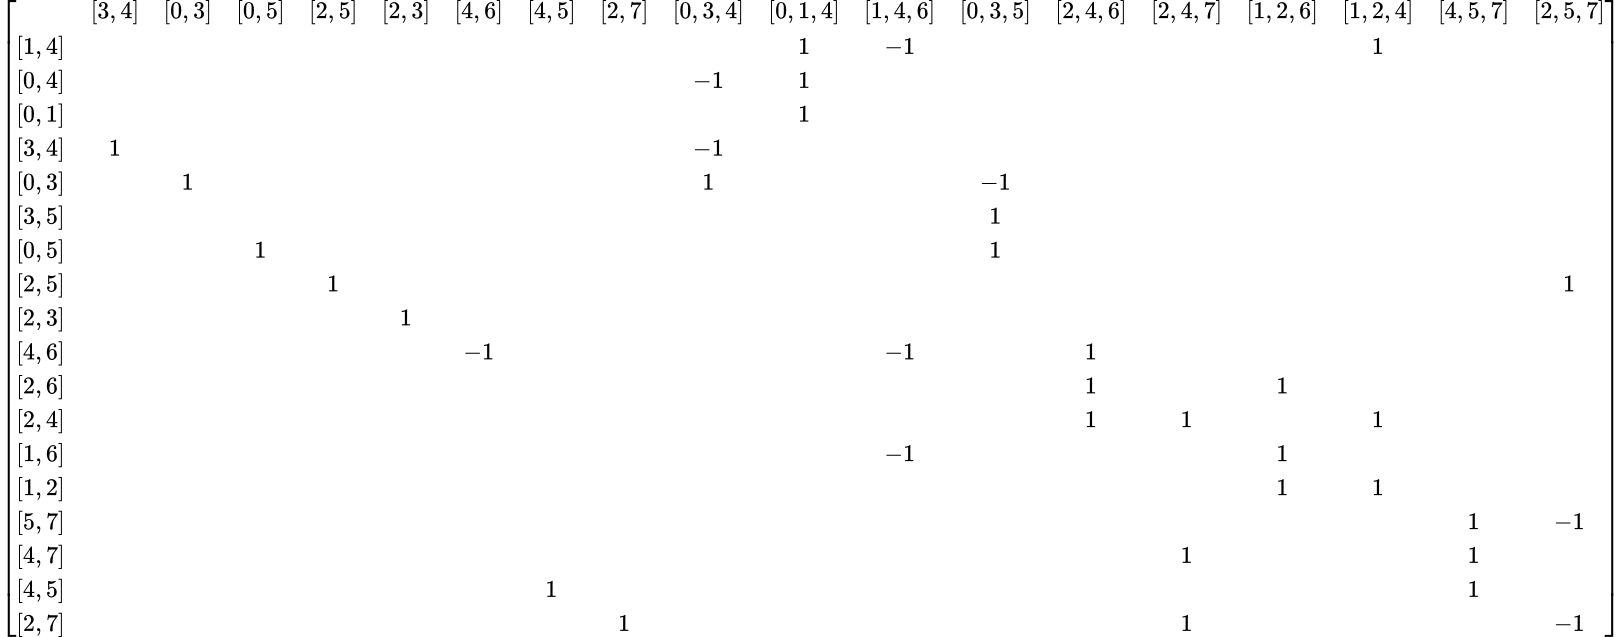
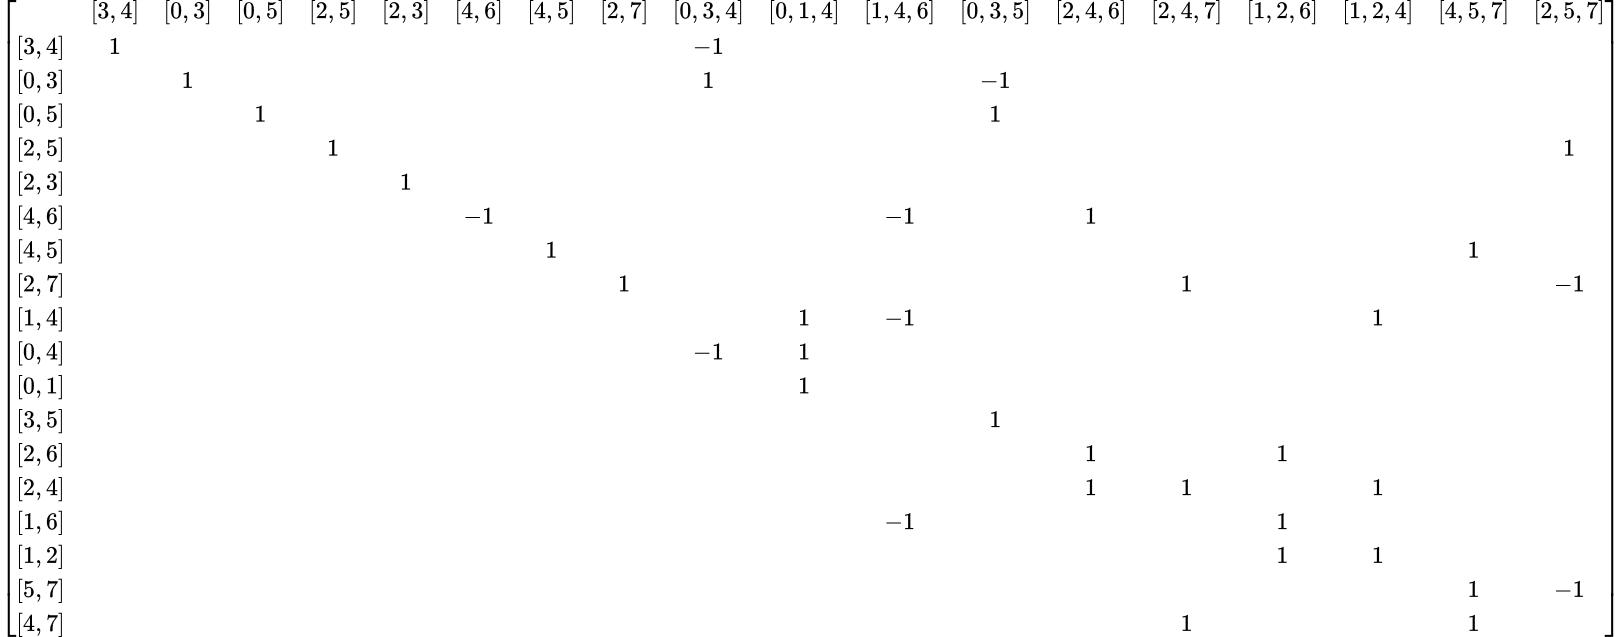
row & col swaps

diff --git a/content/Daily/2026/2026-05-14.md b/content/Daily/2026/2026-05-14.md
@@ -108,6 +108,6 @@ $$
 	\begin{bmatrix}1 & G'\end{bmatrix}b \equiv 0\bmod 2.
 $$
 
-Upon rearranging the $B$, we get the form
+Upon performing row and column swaps on $B$, we get the form
 
 ![[final_basis_nontu_colswap.png#invert | center]]